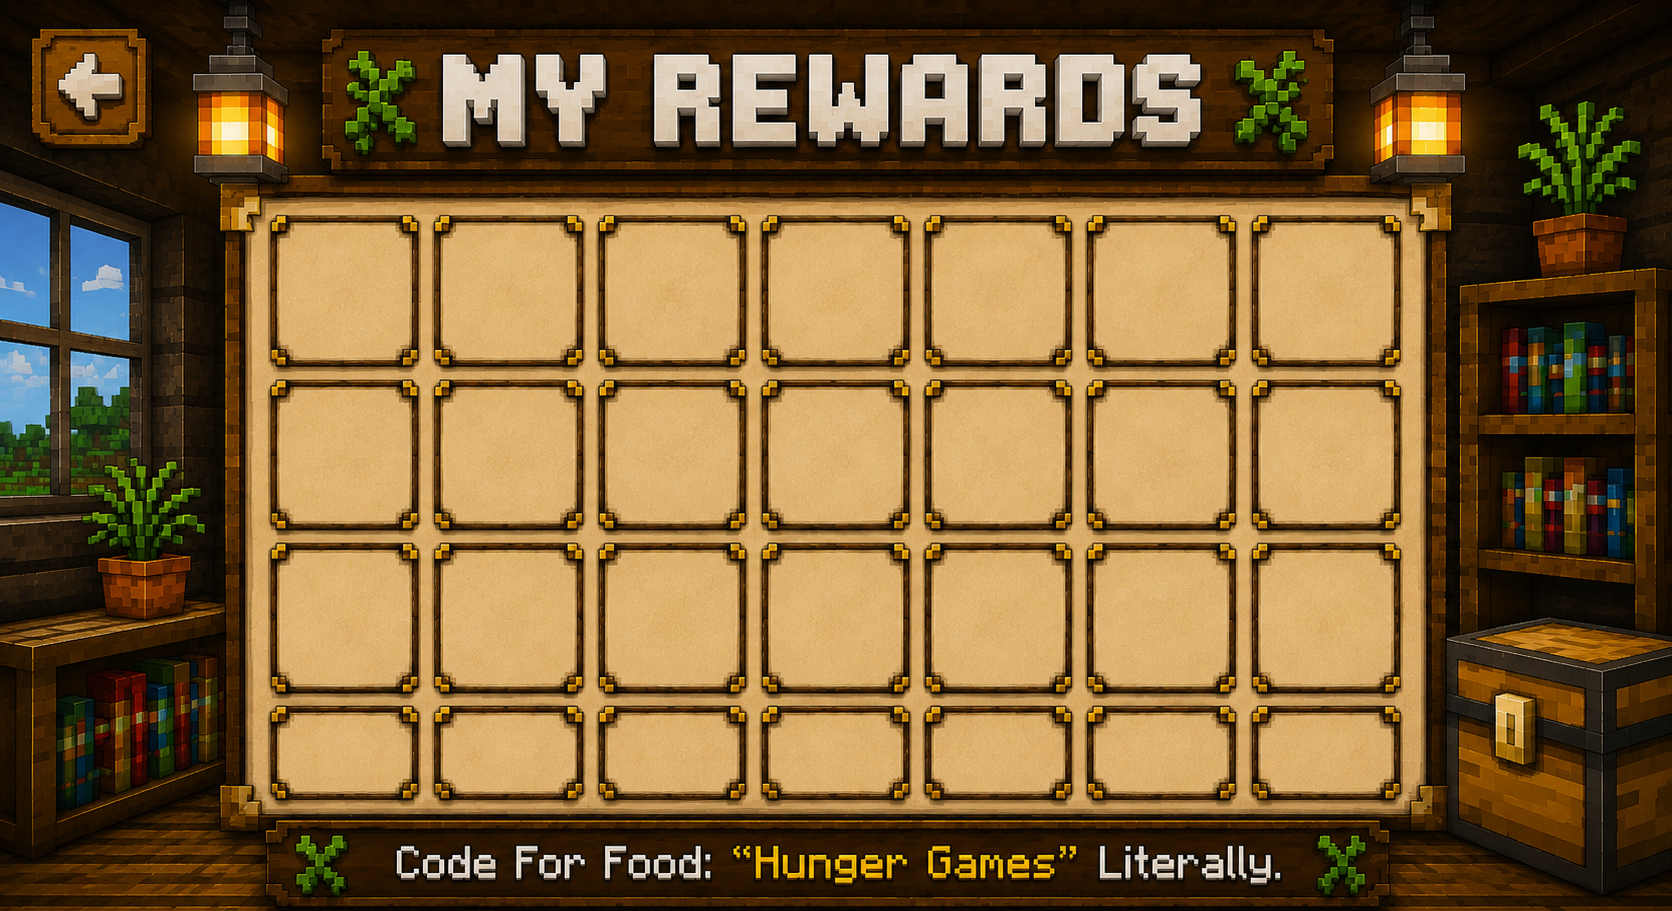
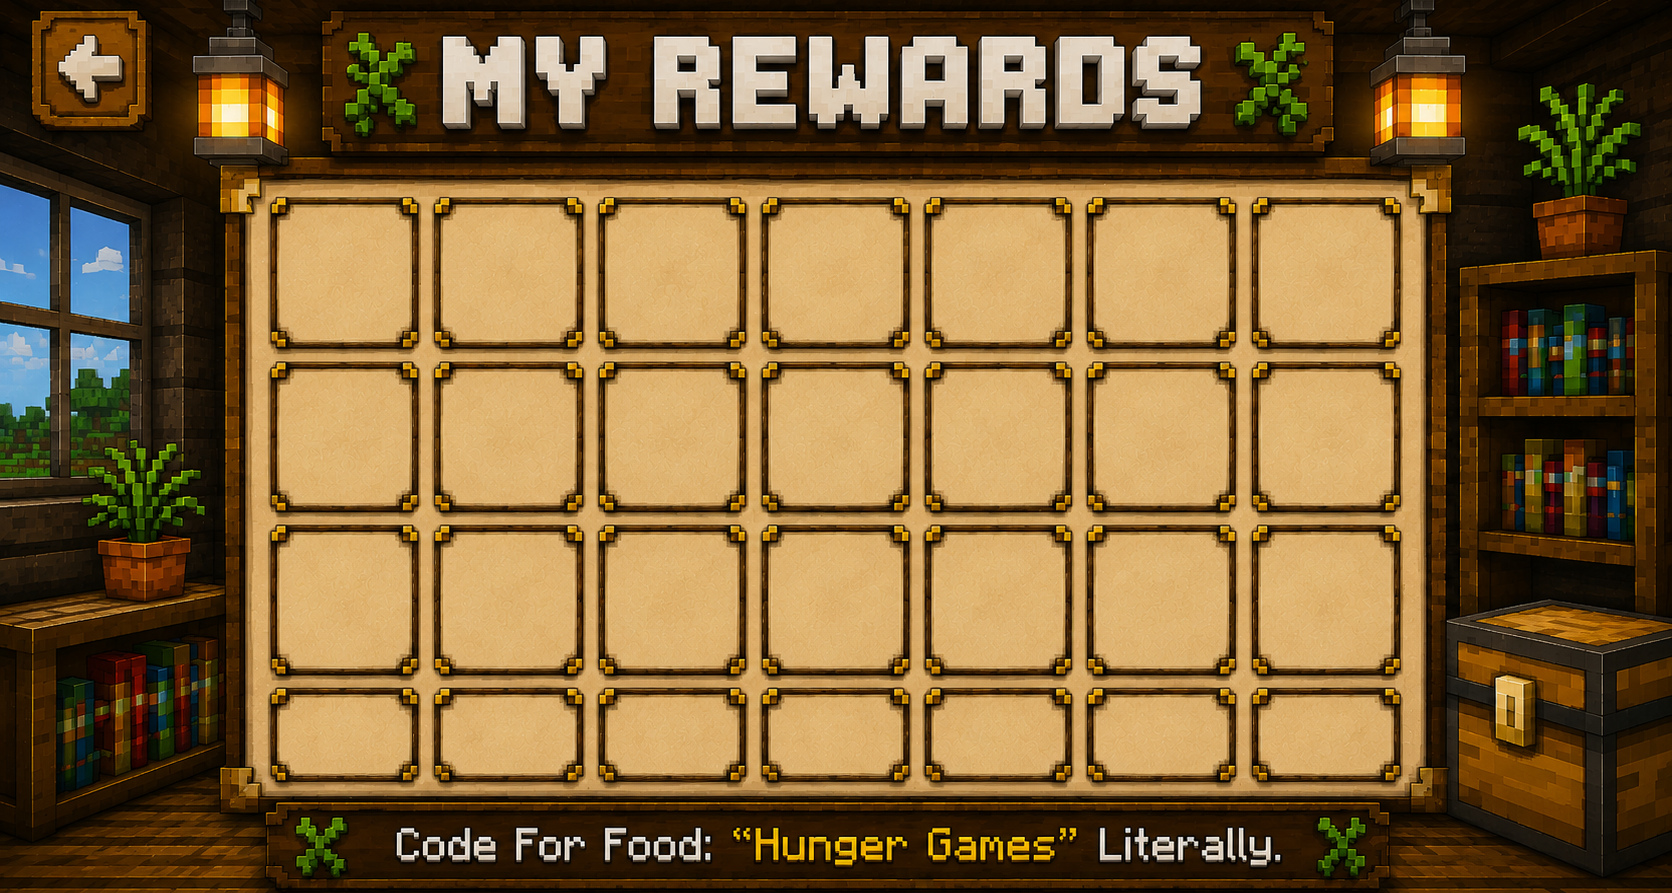
fixes

diff --git a/js/rewards-page.js b/js/rewards-page.js
@@ -1,27 +1,72 @@
 import "./voice-agent.js";
 import { getSupabase, isSupabaseConfigured } from "./supabase-client.js";
-import { fetchUserRewards } from "./supabase-quiz.js";
+import { fetchUserRewards, fetchLatestQuizRun } from "./supabase-quiz.js";
 
-const grid = document.getElementById("rewards-grid");
+var grid = document.getElementById("rewards-grid");
 
-function renderLocalFallback() {
+function renderRecords(records) {
   if (!grid) return;
-  let earned = [];
-  try {
-    earned = JSON.parse(localStorage.getItem("quiz_rewards") || "[]");
-  } catch (_) {}
   grid.innerHTML = "";
-  earned.forEach((file) => {
-    const wrap = document.createElement("div");
-    wrap.className = "rewards-grid-item";
-    const img = document.createElement("img");
-    img.src = "../assets/images/" + file;
+
+  if (!records || records.length === 0) {
+    var empty = document.createElement("p");
+    empty.className = "rewards-empty";
+    empty.textContent = "No rewards earned yet. Take the quiz!";
+    grid.appendChild(empty);
+    return;
+  }
+
+  records.forEach(function (rec) {
+    var wrap = document.createElement("div");
+    wrap.className = "rewards-record";
+
+    var imgWrap = document.createElement("div");
+    imgWrap.className = "rewards-record-img";
+
+    var img = document.createElement("img");
+    img.src = "../assets/images/" + rec.reward_key;
     img.alt = "Reward";
     img.width = 160;
     img.height = 160;
     img.decoding = "async";
-    wrap.appendChild(img);
+    imgWrap.appendChild(img);
+
+    wrap.appendChild(imgWrap);
     grid.appendChild(wrap);
+  });
+}
+
+function buildFromLocalAnswers(answers, rewards) {
+  var result = [];
+  if (!Array.isArray(rewards) || rewards.length === 0) return result;
+
+  var rewardIdx = 0;
+  for (var i = 0; i < answers.length; i++) {
+    if (answers[i].correct && rewardIdx < rewards.length) {
+      result.push({
+        reward_key: rewards[rewardIdx],
+        question: answers[i].question,
+        choice: answers[i].choice,
+      });
+      rewardIdx++;
+    }
+  }
+  return result;
+}
+
+function loadLocal() {
+  var answers = [];
+  var rewards = [];
+  try {
+    answers = JSON.parse(localStorage.getItem("quiz_run_answers") || "[]");
+    rewards = JSON.parse(localStorage.getItem("quiz_rewards") || "[]");
+  } catch (_) {}
+  return buildFromLocalAnswers(answers, rewards);
+}
+
+function rewardsToSimpleRecords(rewardKeys) {
+  return (rewardKeys || []).map(function (key) {
+    return { reward_key: key };
   });
 }
 
@@ -29,41 +74,42 @@ function renderLocalFallback() {
   if (!grid) return;
 
   if (!isSupabaseConfigured()) {
-    renderLocalFallback();
+    renderRecords(loadLocal());
     return;
   }
 
-  const supabase = getSupabase();
-  const {
-    data: { user },
-  } = await supabase.auth.getUser();
+  var supabase = getSupabase();
+  var { data: { user } } = await supabase.auth.getUser();
 
   if (!user) {
-    renderLocalFallback();
+    renderRecords(loadLocal());
     return;
   }
 
-  const { rewards, error } = await fetchUserRewards();
-  if (error) {
-    renderLocalFallback();
+  var localRecords = loadLocal();
+
+  var { rewards: dbRewards, error: rwErr } = await fetchUserRewards();
+  var { run: latestRun, error: runErr } = await fetchLatestQuizRun();
+
+  if (rwErr || runErr) {
+    renderRecords(localRecords.length ? localRecords : null);
     return;
   }
 
-  grid.innerHTML = "";
-  if (!rewards.length) {
+  if (latestRun && latestRun.answers && latestRun.rewards) {
+    var answersFromRun = Array.isArray(latestRun.answers) ? latestRun.answers : [];
+    var rewardsFromRun = Array.isArray(latestRun.rewards) ? latestRun.rewards : [];
+    var runRecords = buildFromLocalAnswers(answersFromRun, rewardsFromRun);
+    if (runRecords.length) {
+      renderRecords(runRecords);
+      return;
+    }
+  }
+
+  if (dbRewards && dbRewards.length) {
+    renderRecords(rewardsToSimpleRecords(dbRewards.map(function (r) { return r.reward_key; })));
     return;
   }
 
-  rewards.forEach((row) => {
-    const wrap = document.createElement("div");
-    wrap.className = "rewards-grid-item";
-    const img = document.createElement("img");
-    img.src = "../assets/images/" + row.reward_key;
-    img.alt = "Reward";
-    img.width = 160;
-    img.height = 160;
-    img.decoding = "async";
-    wrap.appendChild(img);
-    grid.appendChild(wrap);
-  });
+  renderRecords(localRecords.length ? localRecords : null);
 })();

diff --git a/css/style.css b/css/style.css
@@ -16,10 +16,11 @@ body {
 body.rewards-page {
     position: relative;
     min-height: 100vh;
+    overflow: hidden;
     background-color: #3d3428;
     background-image: url("../assets/images/myrewardbg.png");
-    background-size: cover;
-    background-position: center center;
+    background-size: contain;
+    background-position: center top;
     background-repeat: no-repeat;
 }
 
@@ -39,7 +40,7 @@ body.revise-page {
 /* Dashboard — wooden back tile over background (top-left) */
 .dashboard-back {
     position: absolute;
-    top: 0;
+    top: 5rem;
     left: clamp(0.62rem, 2.15vmin, 1.12rem);
     z-index: 50;
     display: block;
@@ -47,6 +48,10 @@ body.revise-page {
     text-decoration: none;
     transform: translateY(-2px);
     transition: transform 0.2s ease;
+}
+
+body.rewards-page .dashboard-back {
+    top: -10.3rem;
 }
 
 .dashboard-back:hover,
@@ -1813,31 +1818,78 @@ body.login-page {
     }
 }
 
-/* pages/rewards.html — icons only on room art (no caption panel) */
+/* pages/rewards.html — reward record cards over room art */
 body.rewards-page .rewards-grid {
     position: relative;
     z-index: 20;
     display: flex;
     flex-wrap: wrap;
-    gap: 1rem;
+    gap: 0.5rem;
     justify-content: center;
-    max-width: 44rem;
-    margin: clamp(5.5rem, 15vh, 8rem) auto 2rem;
+    align-items: flex-start;
+    max-width: 52rem;
+    margin: clamp(10rem, 25vh, 14rem) auto 2rem -5.3rem;
     padding: 0 1rem;
+
 }
 
-.rewards-grid-item {
-    line-height: 0;
-    padding: 4px;
-    border-radius: 8px;
+.rewards-record {
+    display: flex;
+    flex-direction: column;
+    align-items: center;
+    gap: 0.3rem;
+    padding: 0;
+    border-radius: 10px;
     background: transparent;
     border: none;
+    min-width: 120px;
 }
 
-.rewards-grid-item img {
+.rewards-record:nth-child(3) {
+    transform: translateY(-1.5rem);
+}
+
+.rewards-record-img {
+    line-height: 0;
+}
+
+.rewards-record-img img {
     display: block;
-    width: min(120px, 28vw);
+    width: min(95px, 20vw);
     height: auto;
+    image-rendering: pixelated;
+}
+
+.rewards-record-info {
+    display: flex;
+    flex-direction: column;
+    align-items: center;
+    gap: 0.15rem;
+}
+
+.rewards-record-question {
+    font-family: "Press Start 2P", system-ui, monospace;
+    font-size: clamp(0.55rem, 1.4vw, 0.75rem);
+    color: #ffd54f;
+    text-shadow: 2px 2px 0 #5d4037;
+    letter-spacing: 0.03em;
+}
+
+.rewards-record-choice {
+    font-family: "Press Start 2P", system-ui, monospace;
+    font-size: clamp(0.45rem, 1vw, 0.6rem);
+    color: #aed581;
+    text-shadow: 1px 1px 0 #33691e;
+    letter-spacing: 0.02em;
+}
+
+.rewards-empty {
+    font-family: "Press Start 2P", system-ui, monospace;
+    font-size: clamp(0.55rem, 1.5vw, 0.8rem);
+    color: #bcaaa4;
+    text-shadow: 2px 2px 0 #3e2723;
+    text-align: center;
+    margin-top: 2rem;
 }
 
 /* pages/leaderboard.html */

diff --git a/js/points-revise-page.js b/js/points-revise-page.js
@@ -5,7 +5,6 @@ import { fetchLatestWrongAnswers } from "./supabase-quiz.js";
 const QUESTION_LABEL = {
   1: "Q1 — declaring a variable",
   2: "Q2 — variable declaration",
-  3: "Q3 — JS basics",
 };
 
 const container = document.getElementById("revise-wrong-list");
@@ -27,8 +26,7 @@ function renderFromLocalStorage() {
   const wrong = Array.isArray(answers) ? answers.filter((a) => a && a.correct === false) : [];
   container.innerHTML = "";
   wrong.forEach((a) => {
-    const title = QUESTION_LABEL[a.question] || "Q" + a.question;
-    addLine(title + " — chose " + String(a.choice || "?").toUpperCase());
+    addLine("chose " + String(a.choice || "?").toUpperCase());
   });
 }
 
@@ -62,7 +60,6 @@ function renderFromLocalStorage() {
   }
 
   wrong.forEach((a) => {
-    const title = QUESTION_LABEL[a.question] || "Q" + a.question;
-    addLine(title + " — chose " + String(a.choice || "?").toUpperCase());
+    addLine("chose " + String(a.choice || "?").toUpperCase());
   });
 })();

diff --git a/js/supabase-quiz.js b/js/supabase-quiz.js
@@ -117,6 +117,24 @@ export async function fetchLeaderboard(limit = 10) {
   return { rows: data || [], error: null };
 }
 
+export async function fetchLatestQuizRun() {
+  const supabase = getSupabase();
+  if (!supabase) return { run: null, error: "no_client" };
+  const {
+    data: { user },
+  } = await supabase.auth.getUser();
+  if (!user) return { run: null, error: "not_logged_in" };
+  const { data, error } = await supabase
+    .from("quiz_runs")
+    .select("answers, rewards, created_at")
+    .eq("user_id", user.id)
+    .order("created_at", { ascending: false })
+    .limit(1)
+    .maybeSingle();
+  if (error) return { run: null, error: error.message };
+  return { run: data || null, error: null };
+}
+
 export async function fetchLatestWrongAnswers() {
   const supabase = getSupabase();
   if (!supabase) return { wrong: [], error: "no_client" };

diff --git a/js/js-quiz-q1.js b/js/js-quiz-q1.js
@@ -18,8 +18,9 @@
       var choice = btn.getAttribute("data-option");
       document.body.classList.add("js-quiz-q1-page--answered");
       var isCorrect = choice === "c";
+      var rewardKey = isCorrect ? "BURGER.png" : null;
       if (window.QuizTrack && typeof window.QuizTrack.recordAnswer === "function") {
-        window.QuizTrack.recordAnswer(1, isCorrect, choice);
+        window.QuizTrack.recordAnswer(1, isCorrect, choice, rewardKey);
       }
       if (isCorrect) {
         document.body.classList.add("js-quiz-q1-page--result-correct");

diff --git a/js/js-quiz-q3.js b/js/js-quiz-q3.js
@@ -11,8 +11,9 @@
       var choice = btn.getAttribute("data-option");
       document.body.classList.add("js-quiz-q3-page--answered");
       var isCorrect = choice === "a";
+      var rewardKey = isCorrect ? "FRIES.png" : null;
       if (window.QuizTrack && typeof window.QuizTrack.recordAnswer === "function") {
-        window.QuizTrack.recordAnswer(3, isCorrect, choice);
+        window.QuizTrack.recordAnswer(3, isCorrect, choice, rewardKey);
       }
       if (isCorrect) {
         document.body.classList.add("js-quiz-q3-page--result-correct");

diff --git a/js/js-quiz-q2.js b/js/js-quiz-q2.js
@@ -11,8 +11,9 @@
       var choice = btn.getAttribute("data-option");
       document.body.classList.add("js-quiz-q2-page--answered");
       var isCorrect = choice === "b";
+      var rewardKey = isCorrect ? "CAKE.png" : null;
       if (window.QuizTrack && typeof window.QuizTrack.recordAnswer === "function") {
-        window.QuizTrack.recordAnswer(2, isCorrect, choice);
+        window.QuizTrack.recordAnswer(2, isCorrect, choice, rewardKey);
       }
       if (isCorrect) {
         document.body.classList.add("js-quiz-q2-page--result-correct");

diff --git a/js/quiz-track.js b/js/quiz-track.js
@@ -15,7 +15,7 @@
     } catch (_) {}
   }
 
-  function recordAnswer(questionNum, isCorrect, choiceLetter) {
+  function recordAnswer(questionNum, isCorrect, choiceLetter, rewardKey) {
     var arr = [];
     try {
       arr = JSON.parse(global.localStorage.getItem(KEY) || "[]");
@@ -26,6 +26,7 @@
       question: questionNum,
       correct: !!isCorrect,
       choice: String(choiceLetter || ""),
+      reward: rewardKey || null,
     });
     try {
       global.localStorage.setItem(KEY, JSON.stringify(arr));
